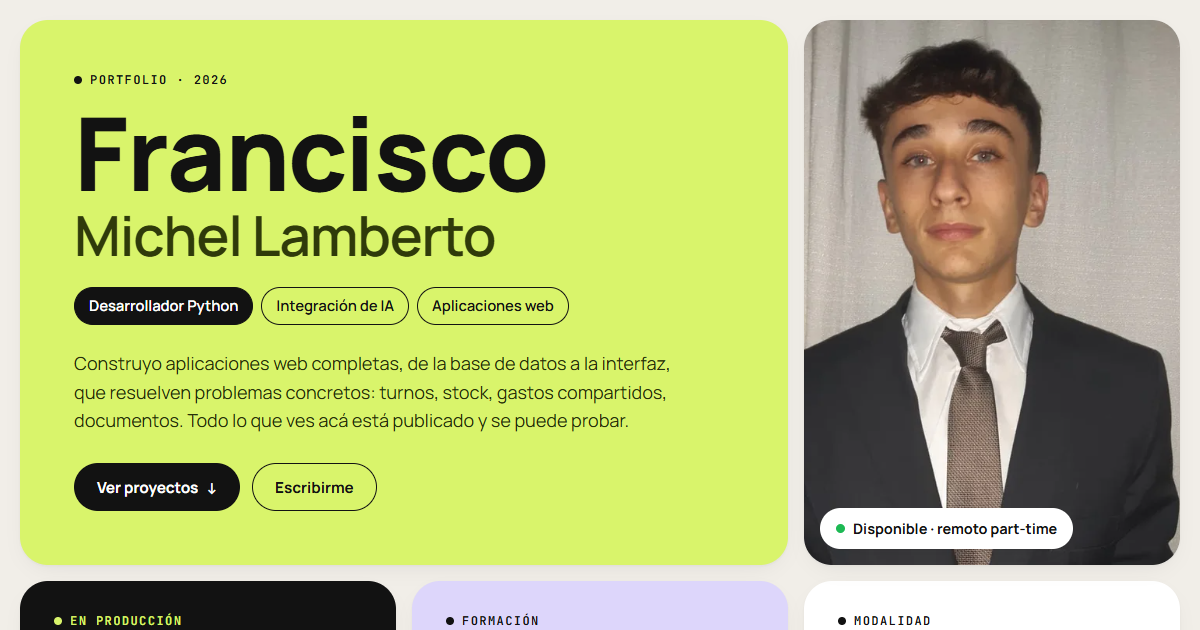
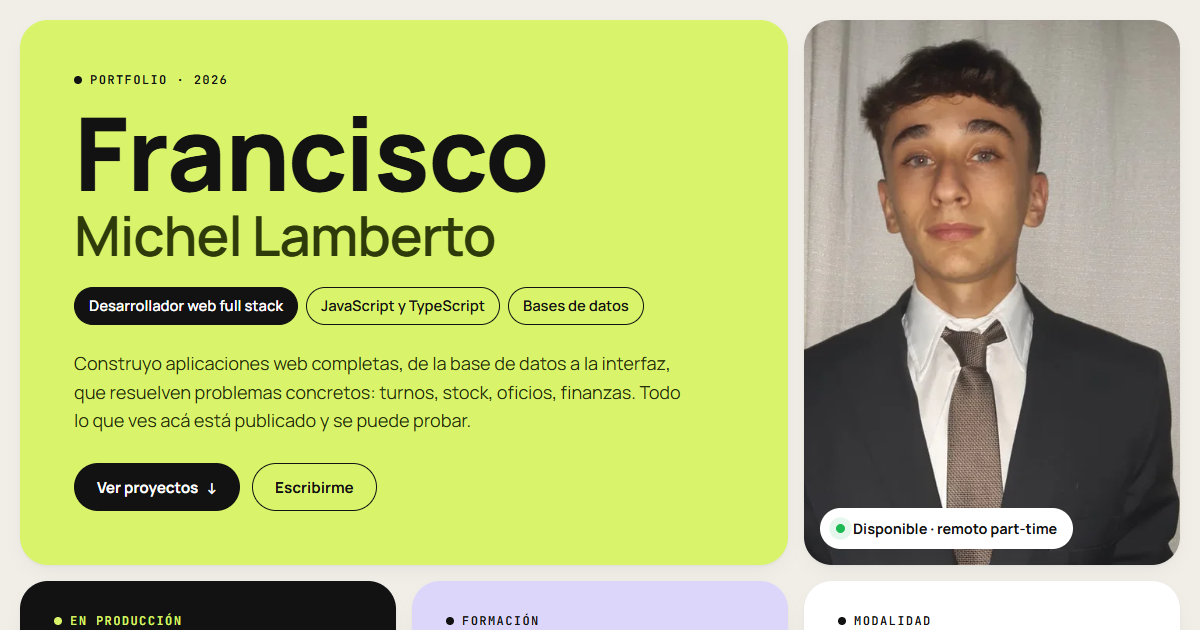
Perfil de desarrollador web full stack, acorde a los proyectos

diff --git a/index.html b/index.html
@@ -3,12 +3,12 @@
 <head>
   <meta charset="utf-8">
   <meta name="viewport" content="width=device-width, initial-scale=1">
-  <title>Francisco Michel Lamberto · Desarrollador Python e integración de IA</title>
+  <title>Francisco Michel Lamberto · Desarrollador web full stack</title>
   <meta name="description" content="Portfolio de Francisco Michel Lamberto, estudiante de Ingeniería en Sistemas (UTN FRC). Cinco aplicaciones web publicadas, con demo en vivo y tests automáticos: JavaScript, TypeScript, Next.js y bases de datos.">
   <meta name="theme-color" content="#F1EEE8">
   <meta property="og:type" content="website">
   <meta property="og:title" content="Francisco Michel Lamberto · Portfolio">
-  <meta property="og:description" content="Desarrollador Python e integración de IA. Cinco aplicaciones web publicadas, cada una con demo en vivo.">
+  <meta property="og:description" content="Desarrollador web full stack. Cinco aplicaciones web publicadas, cada una con demo en vivo.">
   <meta property="og:image" content="https://fran951xd.github.io/img/og.png">
   <meta property="og:url" content="https://fran951xd.github.io/">
   <meta name="twitter:card" content="summary_large_image">
@@ -41,7 +41,7 @@
       <div class="tarjeta tarjeta--lima portada__intro">
         <p class="etiqueta">Portfolio · 2026</p>
         <h1 id="titulo"><span class="portada__nombre">Francisco</span><span class="portada__apellido">Michel Lamberto</span></h1>
-        <p class="portada__rol"><span class="pastilla pastilla--oscura">Desarrollador Python</span><span class="pastilla">Integración de IA</span><span class="pastilla">Aplicaciones web</span></p>
+        <p class="portada__rol"><span class="pastilla pastilla--oscura">Desarrollador web full stack</span><span class="pastilla">JavaScript y TypeScript</span><span class="pastilla">Bases de datos</span></p>
         <p class="portada__bajada">Construyo aplicaciones web completas, de la base de datos a la interfaz, que resuelven problemas concretos: turnos, stock, oficios, finanzas. Todo lo que ves acá está publicado y se puede probar.</p>
         <div class="portada__acciones">
           <a class="boton boton--oscuro" href="#proyectos">Ver proyectos <span aria-hidden="true">↓</span></a>
@@ -220,10 +220,10 @@
         </div>
         <div class="tarjeta aporte revelar">
           <span class="aporte__icono tono-celeste" aria-hidden="true">
-            <svg viewBox="0 0 24 24"><path d="M12 3l1.8 5.2L19 10l-5.2 1.8L12 17l-1.8-5.2L5 10l5.2-1.8zM18.5 15.5l.7 1.8 1.8.7-1.8.7-.7 1.8-.7-1.8-1.8-.7 1.8-.7z"/></svg>
+            <svg viewBox="0 0 24 24"><path d="M10 14a4 4 0 0 0 5.7 0l3-3a4 4 0 0 0-5.7-5.7l-1 1M14 10a4 4 0 0 0-5.7 0l-3 3a4 4 0 0 0 5.7 5.7l1-1"/></svg>
           </span>
-          <h3>IA aplicada con criterio</h3>
-          <p>Integro modelos de IA para automatizar tareas, y diseño el sistema para que el resultado se pueda verificar en vez de creerle a ciegas.</p>
+          <h3>Integración con otros servicios</h3>
+          <p>Conecto aplicaciones con lo que la gente ya usa: pagos con Mercado Pago, ingreso con Google, mapas, WhatsApp y APIs públicas de datos, con planes de respaldo si alguna falla.</p>
         </div>
         <div class="tarjeta aporte revelar">
           <span class="aporte__icono tono-durazno" aria-hidden="true">
@@ -243,7 +243,7 @@
       </div>
       <div class="sobre">
         <div class="tarjeta tarjeta--lavanda sobre__texto revelar">
-          <p class="sobre__destacado">Desarrollo aplicaciones web con Python y bases de datos, y me interesa sobre todo integrar inteligencia artificial en productos para automatizar tareas con resultados confiables.</p>
+          <p class="sobre__destacado">Desarrollo aplicaciones web completas con JavaScript, TypeScript y bases de datos SQL, y me interesa que el software resuelva problemas reales de forma simple y confiable.</p>
           <p>Soy de Córdoba y curso el tercer año de Ingeniería en Sistemas de Información en la UTN. En paralelo a la facultad elijo problemas cotidianos de acá (los turnos de una peluquería, el stock de un almacén, encontrar un plomero de confianza) y los resuelvo con software que cualquiera puede usar desde el celular.</p>
           <p>Busco mi primera experiencia profesional en modalidad remota part-time, en un equipo donde pueda aportar desde el primer día, aprender rápido de gente con más experiencia y crecer como desarrollador.</p>
         </div>
@@ -260,11 +260,11 @@
         <div class="tarjeta sobre__stack revelar">
           <p class="etiqueta">Con qué trabajo</p>
           <dl class="stack">
-            <div><dt>Lenguajes</dt><dd><span class="fuerte">Python</span><span>JavaScript</span><span>TypeScript</span><span>SQL</span><span>HTML y CSS</span></dd></div>
-            <div><dt>Backend y datos</dt><dd><span class="fuerte">FastAPI</span><span>SQLAlchemy</span><span>Node.js</span><span>PostgreSQL</span><span>SQLite</span><span>Drizzle</span></dd></div>
-            <div><dt>Frontend</dt><dd><span>React</span><span>Next.js</span><span>HTMX</span><span>PWA</span></dd></div>
-            <div><dt>Inteligencia artificial</dt><dd><span class="fuerte">Integración de IA</span><span>API de Gemini</span><span>Búsqueda y recuperación (RAG)</span><span>Automatización</span><span>Desarrollo asistido por IA</span></dd></div>
-            <div><dt>Calidad y despliegue</dt><dd><span>pytest</span><span>Playwright</span><span>Vitest</span><span>GitHub Actions</span><span>Cloudflare</span><span>Vercel</span><span>Render</span><span>Git</span></dd></div>
+            <div><dt>Lenguajes</dt><dd><span class="fuerte">JavaScript</span><span class="fuerte">TypeScript</span><span>SQL</span><span>HTML y CSS</span><span>Python</span></dd></div>
+            <div><dt>Backend y datos</dt><dd><span class="fuerte">Node.js</span><span>PostgreSQL</span><span>SQLite</span><span>Drizzle</span><span>IndexedDB</span></dd></div>
+            <div><dt>Frontend</dt><dd><span class="fuerte">Next.js</span><span>React</span><span>PWA</span><span>Service workers</span></dd></div>
+            <div><dt>Integraciones</dt><dd><span>APIs REST</span><span>Mercado Pago</span><span>Login con Google</span><span>Mapas (Leaflet)</span><span>WhatsApp</span></dd></div>
+            <div><dt>Calidad y despliegue</dt><dd><span>Playwright</span><span>Vitest</span><span>GitHub Actions</span><span>Cloudflare</span><span>Vercel</span><span>GitHub Pages</span><span>Git</span></dd></div>
           </dl>
         </div>
 
